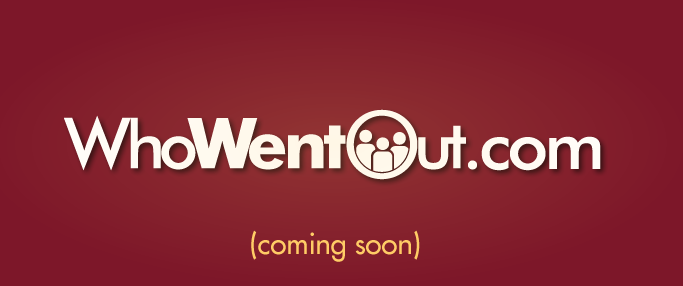
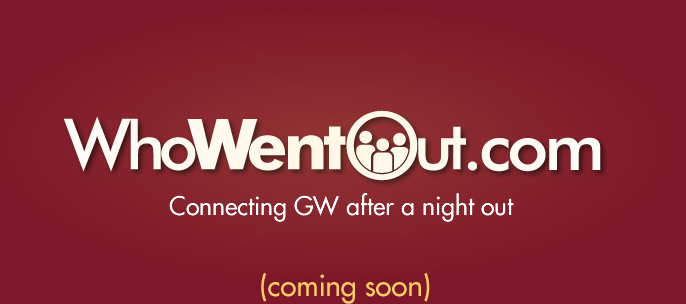
Added basic test cases back. Added tagline to landing page.

Changed region(s): [[0.0922, 0.3636, 0.8917, 0.7273], [0.369, 0.8112, 0.6457, 1.0]]

diff --git a/www/index.php b/www/index.php
@@ -31,6 +31,7 @@ elseif (getenv('server') == 'whowasout') {
     define('ENVIRONMENT', 'whowasout');
 }
 else {
+//    define('ENVIRONMENT', 'test');
     define('ENVIRONMENT', 'development');
 }
 

diff --git a/whowentout/config/testing/database.php b/whowentout/config/testing/database.php
@@ -1,0 +1,9 @@
+<?php
+/**
+ * Created by JetBrains PhpStorm.
+ * User: ramani
+ * Date: 10/2/11
+ * Time: 12:57 PM
+ * To change this template use File | Settings | File Templates.
+ */
+ 

diff --git a/whowentout/tests/xcollege_tests.php b/whowentout/tests/xcollege_tests.php
@@ -1,0 +1,11 @@
+<?php
+
+class XCollege_Tests extends TestGroup
+{
+    
+    function test_addition()
+    {
+        $this->assert_equal(1+1, 2, 'addition of 1+1');
+    }
+
+}

diff --git a/whowentout/libraries/tester.php b/whowentout/libraries/tester.php
@@ -1,6 +1,6 @@
 <?php if ( ! defined('BASEPATH')) exit('No direct script access allowed'); 
 
-class Tester
+class CI_Tester
 {
 
   private $report = array();

diff --git a/www/test.php b/www/test.php
@@ -1,0 +1,5 @@
+<?php
+require_once 'System.php';
+var_dump(class_exists('System', false));
+
+
